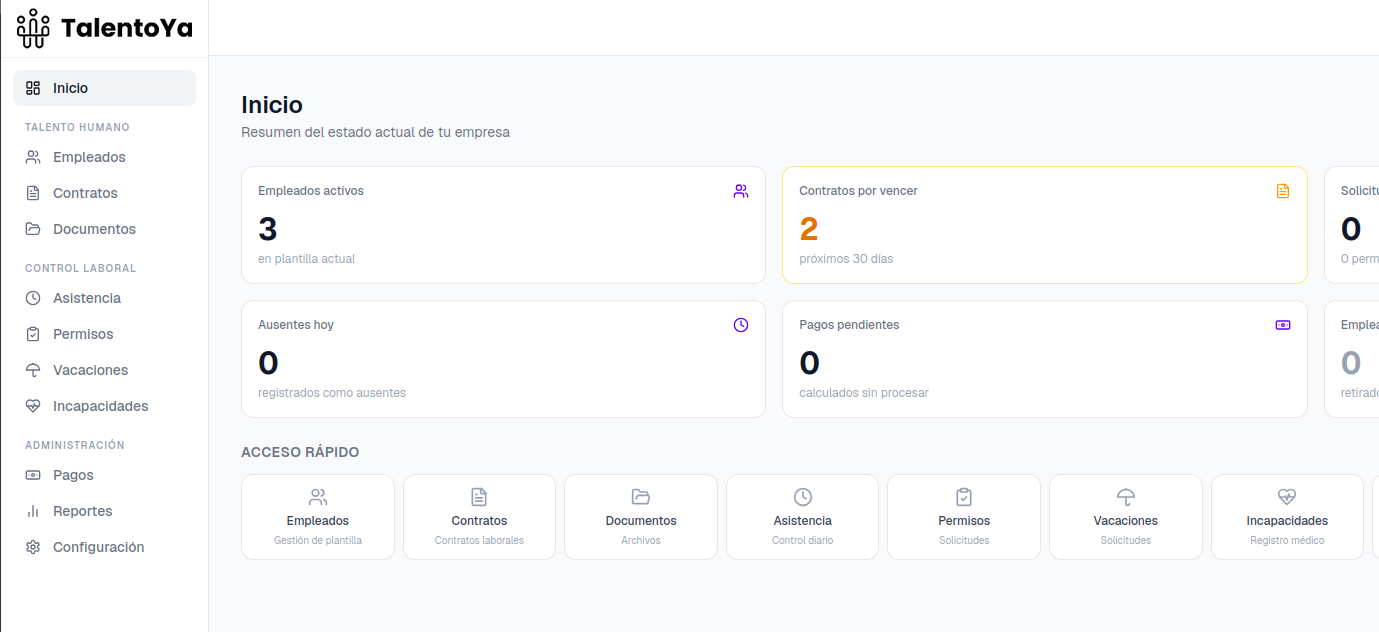
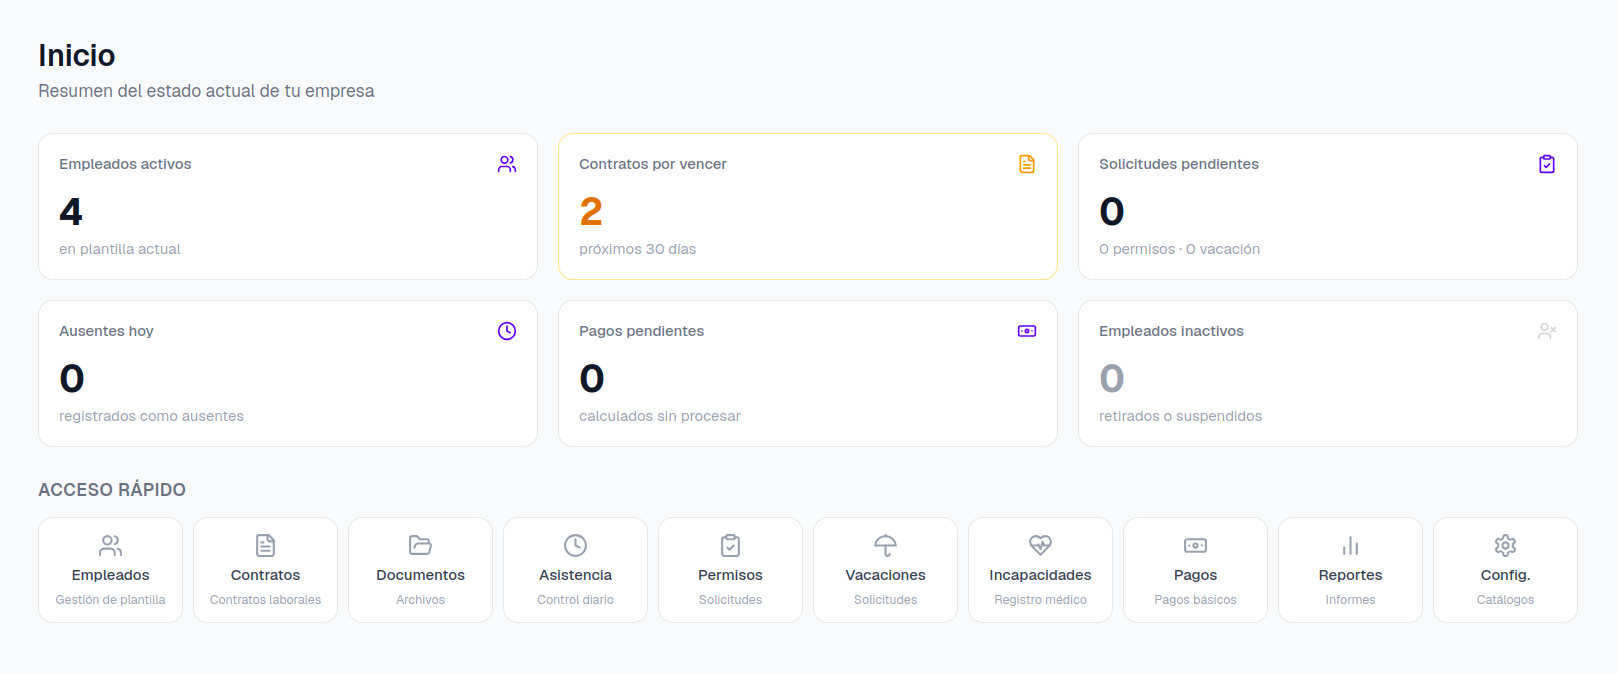
FIx pricing section and supabase enrolment

diff --git a/components/plan-interest-modal.tsx b/components/plan-interest-modal.tsx
@@ -1,0 +1,139 @@
+"use client"
+
+import { useState } from "react"
+import { motion, AnimatePresence } from "framer-motion"
+import { X, CheckCircle } from "lucide-react"
+import { Button } from "@/components/ui/button"
+import { Input } from "@/components/ui/input"
+import { saveLead } from "@/lib/actions/saveLead"
+
+interface PlanInterestModalProps {
+  open: boolean
+  planName: string
+  onClose: () => void
+}
+
+type Status = "idle" | "loading" | "success" | "error"
+
+export function PlanInterestModal({ open, planName, onClose }: PlanInterestModalProps) {
+  const [status, setStatus] = useState<Status>("idle")
+
+  const handleSubmit = async (e: React.FormEvent<HTMLFormElement>) => {
+    e.preventDefault()
+    setStatus("loading")
+    const formData = new FormData(e.currentTarget)
+    try {
+      await saveLead({
+        nombre: formData.get("nombre") as string,
+        empresa: formData.get("empresa") as string,
+        telefono: formData.get("telefono") as string,
+        email: formData.get("email") as string,
+        plan: planName,
+      })
+      setStatus("success")
+    } catch {
+      setStatus("error")
+    }
+  }
+
+  const handleClose = () => {
+    setStatus("idle")
+    onClose()
+  }
+
+  return (
+    <AnimatePresence>
+      {open && (
+        <motion.div
+          className="fixed inset-0 z-50 flex items-center justify-center p-4"
+          initial={{ opacity: 0 }}
+          animate={{ opacity: 1 }}
+          exit={{ opacity: 0 }}
+        >
+          <div className="absolute inset-0 bg-black/50" onClick={handleClose} />
+          <motion.div
+            className="relative bg-white rounded-2xl shadow-2xl w-full max-w-md p-8"
+            initial={{ opacity: 0, scale: 0.95, y: 20 }}
+            animate={{ opacity: 1, scale: 1, y: 0 }}
+            exit={{ opacity: 0, scale: 0.95, y: 20 }}
+            transition={{ duration: 0.2 }}
+          >
+            <button
+              onClick={handleClose}
+              className="absolute top-4 right-4 text-gray-400 hover:text-gray-600 transition-colors"
+            >
+              <X className="h-5 w-5" />
+            </button>
+
+            {status === "success" ? (
+              <div className="text-center space-y-4 py-4">
+                <CheckCircle className="h-14 w-14 text-green-500 mx-auto" />
+                <h3 className="text-2xl font-bold text-gray-900">¡Solicitud recibida!</h3>
+                <p className="text-gray-600">
+                  Te contactaremos pronto para activar tu{" "}
+                  <span className="font-semibold text-blue-600">Plan {planName}</span>.
+                </p>
+                <Button onClick={handleClose} className="w-full mt-2">
+                  Cerrar
+                </Button>
+              </div>
+            ) : (
+              <>
+                <div className="mb-6">
+                  <span className="inline-block bg-blue-50 text-blue-700 text-sm font-medium px-3 py-1 rounded-full mb-3">
+                    Plan {planName}
+                  </span>
+                  <h3 className="text-2xl font-bold text-gray-900">Solicitar acceso</h3>
+                  <p className="text-gray-500 mt-1 text-sm">
+                    Te contactamos para activar tu plan sin complicaciones.
+                  </p>
+                </div>
+
+                <form onSubmit={handleSubmit} className="space-y-4">
+                  <div>
+                    <label className="block text-sm font-medium text-gray-700 mb-1">
+                      Nombre
+                    </label>
+                    <Input name="nombre" required placeholder="Tu nombre completo" />
+                  </div>
+                  <div>
+                    <label className="block text-sm font-medium text-gray-700 mb-1">
+                      Empresa
+                    </label>
+                    <Input name="empresa" required placeholder="Nombre de tu empresa" />
+                  </div>
+                  <div>
+                    <label className="block text-sm font-medium text-gray-700 mb-1">
+                      Teléfono
+                    </label>
+                    <Input name="telefono" type="tel" required placeholder="[phone redacted]" />
+                  </div>
+                  <div>
+                    <label className="block text-sm font-medium text-gray-700 mb-1">
+                      Correo electrónico
+                    </label>
+                    <Input name="email" type="email" required placeholder="[email redacted]" />
+                  </div>
+
+                  {status === "error" && (
+                    <p className="text-sm text-red-600 text-center">
+                      ⚠️ Hubo un error, intenta de nuevo.
+                    </p>
+                  )}
+
+                  <Button
+                    type="submit"
+                    disabled={status === "loading"}
+                    className="w-full mt-2"
+                  >
+                    {status === "loading" ? "Enviando..." : "Enviar solicitud"}
+                  </Button>
+                </form>
+              </>
+            )}
+          </motion.div>
+        </motion.div>
+      )}
+    </AnimatePresence>
+  )
+}

diff --git a/components/sections/pricing-section.tsx b/components/sections/pricing-section.tsx
@@ -1,41 +1,56 @@
 "use client"
 
+import { useState } from "react"
 import { motion } from "framer-motion"
-import { CheckCircle, Shield } from "lucide-react"
+import { CheckCircle, Shield, Star } from "lucide-react"
 import { Button } from "@/components/ui/button"
 import { Card, CardContent, CardDescription, CardHeader, CardTitle } from "@/components/ui/card"
-// Archived — pricing removed from landing. Data kept inline for reference.
+import { PlanInterestModal } from "@/components/plan-interest-modal"
+
 const pricingPlans = [
   {
-    name: "Básico",
-    price: "$49.900",
+    name: "Starter",
+    price: "$150.000",
     period: "COP/mes",
-    description: "Perfecto para emprendedores",
-    features: ["Hasta 3 empleados", "Nómina básica", "Contratos básicos", "Soporte por email"],
+    description: "Para microempresas que empiezan",
+    features: ["Hasta 10 empleados", "Contratos laborales", "Documentos y permisos", "Soporte en español"],
     highlighted: false,
     badge: undefined as string | undefined,
   },
   {
     name: "PyME",
-    price: "$89.900",
+    price: "$250.000",
     period: "COP/mes",
-    description: "Ideal para pequeñas empresas",
-    features: ["Hasta 15 empleados", "Nómina completa", "Todos los contratos", "Alertas automáticas", "Soporte prioritario"],
+    description: "Ideal para empresas en crecimiento",
+    features: ["De 11 a 25 empleados", "Contratos laborales", "Documentos y permisos", "Vacaciones e incapacidades", "Soporte prioritario"],
     highlighted: true,
     badge: "Más Popular" as string | undefined,
   },
   {
-    name: "Pro",
-    price: "$149.900",
+    name: "Empresarial",
+    price: "$400.000",
     period: "COP/mes",
-    description: "Para empresas en crecimiento",
-    features: ["Empleados ilimitados", "Funciones avanzadas", "Reportes detallados", "API integración", "Soporte 24/7"],
+    description: "Para empresas consolidadas",
+    features: ["De 26 a 50 empleados", "Contratos laborales", "Documentos y permisos", "Vacaciones e incapacidades", "Reportes avanzados", "Soporte prioritario"],
     highlighted: false,
     badge: undefined as string | undefined,
   },
 ]
 
+const founderFeatures = [
+  "Hasta 15 empleados",
+  "Contratos laborales",
+  "Documentos y permisos",
+  "Vacaciones e incapacidades",
+  "Soporte en español",
+]
+
 export function PricingSection() {
+  const [modal, setModal] = useState<{ open: boolean; plan: string }>({ open: false, plan: "" })
+
+  const openModal = (plan: string) => setModal({ open: true, plan })
+  const closeModal = () => setModal({ open: false, plan: "" })
+
   return (
     <motion.section
       id="planes"
@@ -47,7 +62,7 @@ export function PricingSection() {
     >
       <div className="container mx-auto max-w-6xl">
         <motion.div
-          className="text-center space-y-4 mb-16"
+          className="text-center space-y-4 mb-12"
           initial={{ opacity: 0, y: 30 }}
           whileInView={{ opacity: 1, y: 0 }}
           transition={{ duration: 0.6 }}
@@ -59,6 +74,46 @@ export function PricingSection() {
           <p className="text-xl text-muted-foreground max-w-2xl mx-auto text-pretty">
             Precios justos y transparentes. Sin sorpresas, sin letra pequeña.
           </p>
+        </motion.div>
+
+        {/* Plan Founder — precio de lanzamiento */}
+        <motion.div
+          className="mb-10 max-w-5xl mx-auto"
+          initial={{ opacity: 0, y: 20 }}
+          whileInView={{ opacity: 1, y: 0 }}
+          transition={{ duration: 0.6 }}
+          viewport={{ once: true }}
+        >
+          <div className="relative bg-gradient-to-r from-amber-50 to-orange-50 border-2 border-amber-400 rounded-2xl p-6 flex flex-col md:flex-row items-center justify-between gap-6">
+            <div className="absolute -top-4 left-6">
+              <span className="inline-flex items-center gap-1.5 bg-amber-400 text-amber-900 px-4 py-1 rounded-full text-sm font-bold">
+                <Star className="h-3.5 w-3.5 fill-amber-900" />
+                Precio de lanzamiento
+              </span>
+            </div>
+            <div className="text-center md:text-left">
+              <h3 className="text-2xl font-bold text-amber-900">Plan Founder</h3>
+              <p className="text-amber-700 mt-1">Exclusivo para los primeros clientes que apoyaron TalentoYa</p>
+              <div className="flex flex-wrap gap-3 mt-3 justify-center md:justify-start">
+                {founderFeatures.map((f) => (
+                  <div key={f} className="flex items-center gap-1.5 text-sm text-amber-800">
+                    <CheckCircle className="h-4 w-4 text-amber-600 shrink-0" />
+                    <span>{f}</span>
+                  </div>
+                ))}
+              </div>
+            </div>
+            <div className="text-center shrink-0">
+              <div className="text-4xl font-bold text-amber-600">$150.000</div>
+              <div className="text-amber-700 text-sm">COP/mes</div>
+              <Button
+                className="mt-4 bg-amber-500 hover:bg-amber-600 text-white border-0"
+                onClick={() => openModal("Founder")}
+              >
+                Empieza ahora
+              </Button>
+            </div>
+          </div>
         </motion.div>
 
         <motion.div
@@ -108,6 +163,7 @@ export function PricingSection() {
                   <Button
                     className="w-full mt-6"
                     variant={plan.highlighted ? "default" : "outline"}
+                    onClick={() => openModal(plan.name)}
                   >
                     Empieza ahora
                   </Button>
@@ -127,11 +183,17 @@ export function PricingSection() {
           <div className="inline-flex items-center gap-2 bg-green-50 text-green-700 px-6 py-3 rounded-full">
             <Shield className="h-5 w-5" />
             <span className="font-medium">
-              Garantía de 30 días - Si no estás satisfecho, te devolvemos el dinero
+              Garantía de 30 días — Si no estás satisfecho, te devolvemos el dinero
             </span>
           </div>
         </motion.div>
       </div>
+
+      <PlanInterestModal
+        open={modal.open}
+        planName={modal.plan}
+        onClose={closeModal}
+      />
     </motion.section>
   )
 }

diff --git a/lib/actions/saveLead.ts b/lib/actions/saveLead.ts
@@ -1,0 +1,24 @@
+"use server"
+
+import { supabase } from "@/lib/supabase"
+
+export interface LeadData {
+  nombre: string
+  empresa: string
+  telefono: string
+  email: string
+  plan: string
+}
+
+export async function saveLead(data: LeadData) {
+  const { error } = await supabase.from("leads").insert({
+    nombre: data.nombre,
+    empresa: data.empresa,
+    telefono: data.telefono,
+    email: data.email,
+    plan: data.plan,
+    fuente: "landing",
+  })
+
+  if (error) throw new Error(error.message)
+}

diff --git a/lib/supabase.ts b/lib/supabase.ts
@@ -1,0 +1,6 @@
+import { createClient } from "@supabase/supabase-js"
+
+const supabaseUrl = process.env.NEXT_PUBLIC_SUPABASE_URL!
+const supabaseKey = process.env.SUPABASE_SERVICE_ROLE_KEY!
+
+export const supabase = createClient(supabaseUrl, supabaseKey)

diff --git a/components/sections/hero-section.tsx b/components/sections/hero-section.tsx
@@ -77,7 +77,7 @@ export function HeroSection() {
               transition={{ duration: 0.6, delay: 1.2 }}
             >
               <CheckCircle className="h-4 w-4 text-green-500" />
-              <span>Sin tarjeta de crédito  •  Soporte en español  •  Cumple ley laboral colombiana</span>
+              <span>Soporte en español</span>
             </motion.div>
           </motion.div>
 
@@ -90,7 +90,7 @@ export function HeroSection() {
             <img
               src="/dashboard-preview.png"
               alt="Dashboard de TalentoYa — gestión de empleados"
-              className="max-w-lg w-full h-auto rounded-xl shadow-2xl border border-gray-200"
+              className="max-w-4xl w-full h-auto rounded-xl shadow-2xl border border-gray-200"
             />
           </motion.div>
         </div>

diff --git a/app/page.tsx b/app/page.tsx
@@ -3,6 +3,7 @@ import { HeroSection } from "@/components/sections/hero-section"
 import { BenefitsSection } from "@/components/sections/benefits-section"
 import { FeaturesSection } from "@/components/sections/features-section"
 import { DemoSection } from "@/components/sections/demo-section"
+import { PricingSection } from "@/components/sections/pricing-section"
 import { SiteFooter } from "@/components/sections/site-footer"
 
 export default function TalentoYaLanding() {
@@ -12,6 +13,7 @@ export default function TalentoYaLanding() {
       <HeroSection />
       <BenefitsSection />
       <FeaturesSection />
+      <PricingSection />
       <DemoSection />
       <SiteFooter />
     </div>